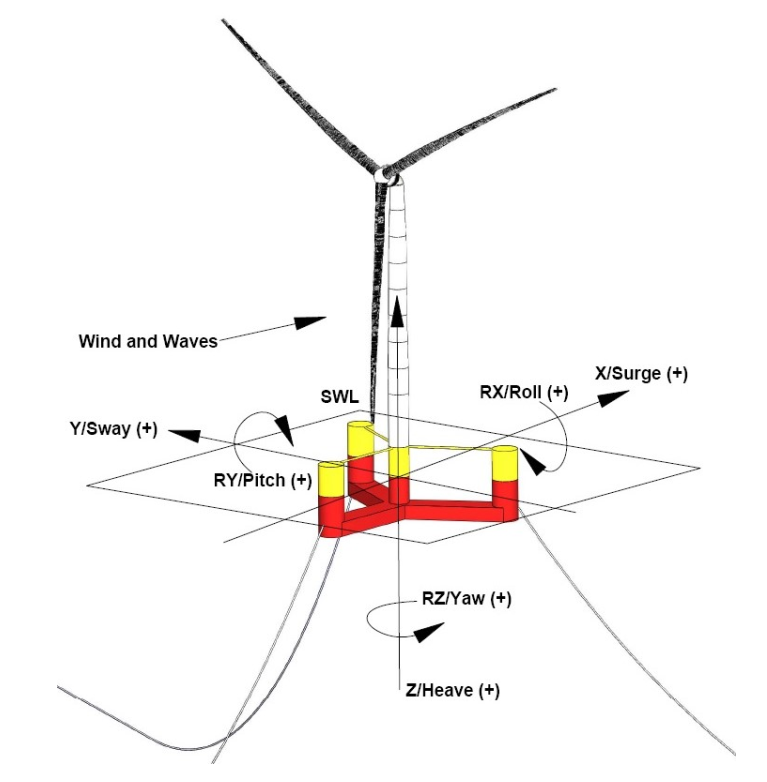
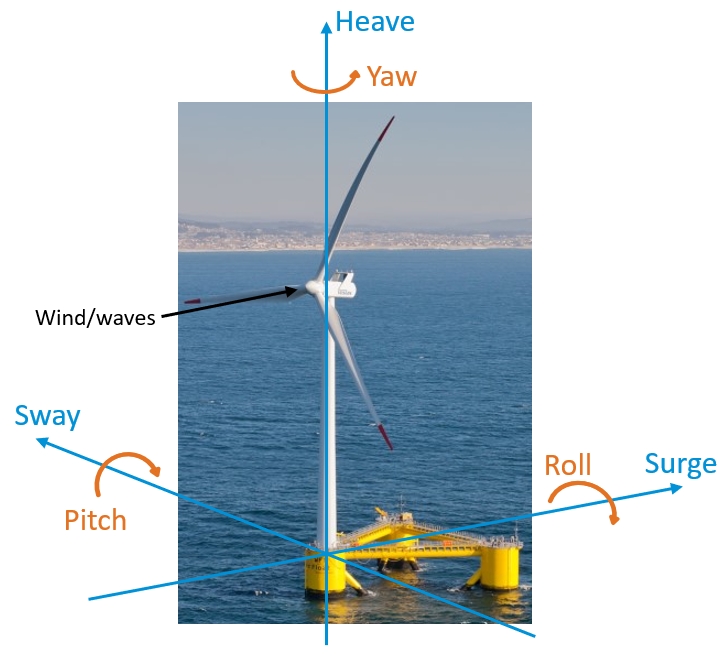
Added new FOWTcoordinates image. Other stuff.. ugh

diff --git a/Chapters/Modelling.tex b/Chapters/Modelling.tex
@@ -90,14 +90,16 @@ The generator torque sensitivity to rotational velocity change from \cref{eq:wtL
 	& = \dfrac{1}{\omega} \cdot  \dfrac{\partial P_{loss}}{\partial \omega} - \dfrac{1}{\omega^2}(P + P_{loss}) + \dfrac{1}{\omega} \dfrac{\partial P}{\partial \omega} \\
 	& = -\dfrac{1}{\omega^2}(P + P_{loss}) + \dfrac{1}{\omega} \cdot \dfrac{\partial P_{loss}}{\partial \omega}
 \end{align}
-The above derived generator model is referred to the low-speed generator side by replacing $ \omega $ with $ \omega_L $ where $ \omega_L = \left (\dfrac{N_r}{N_g} \right ) \omega $. This yields the final linear generator model evaluated at the operating point $ (P_o, \omega_o) $:
-
+The above derived generator model is referred to the low-speed generator side by replacing $ \omega $ with $ \omega_L $ where $ \omega_L = \left (\dfrac{N_r}{N_g} \right ) \omega $. This yields the final linear generator model evaluated at the operating point $ (P_o, \omega_o) $. Furthermore $P_{loss}$ is still just a function of $ \omega_L $ and $ P $:
 \begin{equation}
-	T_{gen}( P, \omega_L) \approx \left. \left ( \dfrac{1}{\omega_L} \cdot \dfrac{\partial P_{loss}}{\partial P} + \dfrac{1}{\omega_L} \right ) \right |_{P_o,\omega_{L_o}} (P - P_0)+ 
-	\left ( -\dfrac{1}{\omega_L^2}(P + P_{loss}) + \left. \dfrac{1}{\omega_L} \cdot \dfrac{\partial P_{loss}}{\partial \omega_L} \right ) \right |_{P_o,\omega_{L_o}} (\omega_L - \omega_{L_o})
+	\begin{split}
+		T_{gen}(P, \omega_L) 	& \approx \left. \left ( \dfrac{1}{\omega_L} \cdot \dfrac{\partial P_{loss}(P, \omega)}{\partial P} + \dfrac{1}{\omega_L} \right ) \right |_{P_o,\omega_{L_o}} (P - P_0) \\ 
+		& + \left ( -\dfrac{1}{\omega_L^2}(P + P_{loss}(P, \omega)) + \left. \dfrac{1}{\omega_L} \cdot \dfrac{\partial P_{loss}(P, \omega)}{\partial \omega_L} \right ) \right |_{P_o,\omega_{L_o}} (\omega_L - \omega_{L_o})
+	\end{split}
 \end{equation}
 
-Presently the generator model in wtLin is implemented assuming a stiff drivetrain such that $ \Omega = \omega_L $ and as such the input to the generator model is $ \Omega $. Furthermore $P_{loss}$ is still just a function of $ \omega_L $ and $ P $. \todo[]{Er det muligt at ændre modellen så at den tager højde for et flexibelt drivetrain? Giver det overhovedet mening?}
+
+Presently the generator model in wtLin is implemented assuming a stiff drivetrain such that $ \Omega = \omega_L $ and as such the input to the generator model is $ \Omega $.  \todo[]{Er det muligt at ændre modellen så at den tager højde for et flexibelt drivetrain? Giver det overhovedet mening?}
 
 
 \subsubsection{Unity model converter} \label{sec:wtLin_conv_unity}
@@ -160,3 +162,29 @@ The fore-aft tower motion is both the x-axis translation (surge)
 %	
 %\end{equation}
 
+\subsection{Sum-up of full model}
+
+\subsubsection{Inputs, states and outputs}
+\textbf{States:}
+Converter with time constant (maybe used?): $ P_{conv} $
+
+Flexible drivetrain: $ \Omega $ and $ \omega_L $
+
+Fore-aft tower model: $ \ddot{p}_y $ and $ \dot{p}_y $
+
+Side-side tower model (maybe used?): $ \ddot{p}_x $ and $ \dot{p}_x $
+
+Pitch model with dynamics (maybe used?): $ \theta $
+
+FLC: $ \theta_{ref} $
+
+PLC: $ P_{ref} $
+
+State vector: 
+\begin{equation}\label{key}
+	x = [\Omega, \omega_L, \ddot{p}_y, \dot{p}_y, \ddot{p}_x, \dot{p}_x, \theta, \theta_{ref}, P_{ref}]^T
+\end{equation}
+\textbf{Inputs:}
+
+
+\textbf{Outputs:}

diff --git a/Chapters/Introduction.tex b/Chapters/Introduction.tex
@@ -36,11 +36,11 @@ A characteristic property of floating platforms is static stability which ensure
 Foundation types in which the buoyancy contribution prevails are buoyancy-stabilized. Likewise foundations where the ballast and mooring line contributions prevail are ballast and mooring line stabilized respectively. The semi-submersible type is both buoyancy and ballast stabilized. It achieves buoyancy stability by covering a large water-plane area and ballast stability from having three cylinders connected by struts containing ballast weights at the base. Furthermore \textit{heave plates} sit at the bottom of the cylinders yielding increased dampening while adding mass to the system.
 Floaters are subjected to additional external loads: Hydrodynamic forces act on the foundation and are comprised of contributions from waves, buoyancy forces and viscous forces. The mooring system will furthermore affect the foundation and differently depending on the type of mooring system.\\
 
-FOWTs are still in the developmental stage with a higher LCOE than the on- and offshore counterparts. They experiences greater structural strain because of significant rotational and translational motions of the support structure. The illustration in \cref{fig:fowt_coordinates} shows the degrees of freedom (DOFs) of a FOWT. 
+FOWTs are still in the developmental stage with a higher LCOE than the on- and offshore counterparts. They experiences greater structural strain because of significant rotational and translational motions of the support structure. The illustration in \cref{fig:fowt_coordinates} shows the additional degrees of freedom (DOFs) of FOWTs. 
 \begin{figure}[h]
 	\centering
 	\includegraphics[width=0.55\linewidth]{Graphics/FOWTcoordinates.png}
-	\caption{The 6 degrees of freedom (DOFs) of a floating offshore wind turbine. (This is not the specific WT which is modelled in this report) \cite{Vanelli2021}}
+	\caption{The 6 additional degrees of freedom (DOFs) of a floating offshore wind turbine. While it is the correct foundation structure but but the turbine might not be exactly the turbine modelled in this report}
 	\label{fig:fowt_coordinates}
 \end{figure}
 Because of the increased movement, the tower is reinforced to handle the greater loads. This drives the LCOE up and as such it is of great interest to explore methods which could be used to dampen the movement of the floating WT structure. One of the large challenges in the FOWT development is handling the negative dampening problem: As the wind is flowing through the rotor plane the thrust of the wind shoves and pitches the WT foundation backwards. The backwards thrust causes the foundation pitch to oscillate thus changing the relative velocity as seen by the rotor. When the turbine moves forward the relative wind speed is higher resulting in a greater torque and thrust. Above nominal wind speeds the rotor speed is regulated via the rotor pitch angle. Thus the rotor speed controller will pitch the blades out of the wind to decrease the rotational speed but at the same time also decreases the thrust. Thus the WT thrusts forwards even faster as a result of the reduced dampening resulting from the higher pitch angle. As the turbine reaches the peak of its forward motion and begins to move backwards the opposite occurs. The 

diff --git a/Chapters/Documentation_tj00.tex b/Chapters/Documentation_tj00.tex
@@ -107,4 +107,4 @@ It is widely evident that the turbine is pitching and translating in the water, 
 %\end{figure}
 
 
-\subsubsection*{Sources of error and insecurities}
+%\subsubsection*{Sources of error and insecurities}

diff --git a/Chapters/TheoreticalBackground.tex b/Chapters/TheoreticalBackground.tex
@@ -83,3 +83,4 @@ The total thrust and torque of a blade can then be calculated by integrating the
 
 
 \subsection{Wind turbine controller} \label{sec:theory_ctrl}
+
